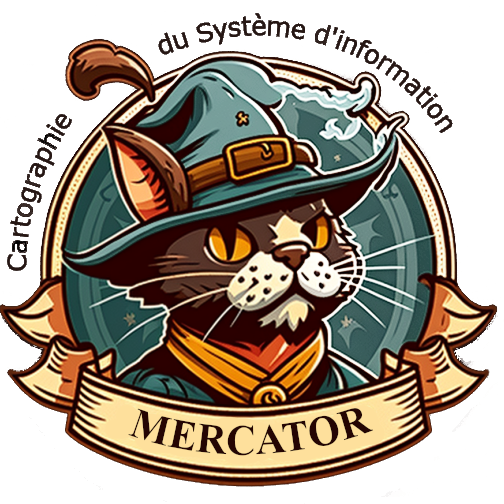
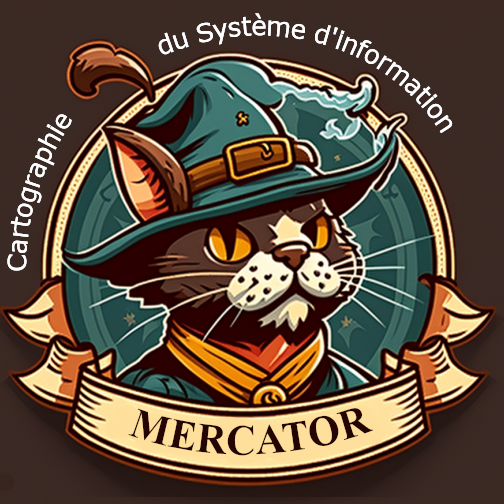
change login page

diff --git a/resources/views/auth/passwords/edit.blade.php b/resources/views/auth/passwords/edit.blade.php
@@ -1,6 +1,34 @@
 @extends('layouts.admin')
-@section('content')
+@section('styles')
+<style>
+     body {
+                background-image: url('/images/mercator.png');
+                background-size:  800px 800px;
+                background-position: center;
+                background-repeat: no-repeat;
+                background-color: #3b2924;
+            }
 
+        .card {
+            background-color: rgba(255, 255, 255, 0.5); /* Couleur blanche avec 80% d'opacité */
+        }
+
+        .input-group-text {
+            background-color: rgba(255, 255, 255, 0.5); /* Fond partiellement transparent pour les icônes */
+        }
+
+        .form-control {
+            background-color: rgba(255, 255, 255, 0.7); /* Fond partiellement transparent pour les champs de texte */
+        }
+
+        h1 {
+            text-align: center;
+            color: #333; /* Couleur du titre */
+        }
+</style>
+@endsection
+
+@section('content')
 <div class="card">
     <div class="card-header">
         {{ trans('global.change_password') }}
@@ -18,7 +46,7 @@
                     </div>
                 @endif
             </div>
-            @if (\Config::get('LDAP_DOMAIN')==null) 
+            @if (\Config::get('LDAP_DOMAIN')==null)
             <div class="form-group">
                 <label class="required" for="title">New {{ trans('cruds.user.fields.password') }}</label>
                 <input class="form-control {{ $errors->has('password') ? 'is-invalid' : '' }}" type="password" name="password" id="password" autocomplete="new-password" required>

diff --git a/resources/views/auth/login.blade.php b/resources/views/auth/login.blade.php
@@ -1,12 +1,39 @@
 @extends('layouts.app')
+@section('styles')
+<style>
+     body {
+                background-image: url('/images/mercator.png');
+                background-size:  800px 800px;
+                background-position: center;
+                background-repeat: no-repeat;
+                background-color: #3b2924;
+            }
+
+        .card {
+            background-color: rgba(255, 255, 255, 0.5); /* Couleur blanche avec 80% d'opacité */
+        }
+
+        .input-group-text {
+            background-color: rgba(255, 255, 255, 0.5); /* Fond partiellement transparent pour les icônes */
+        }
+
+        .form-control {
+            background-color: rgba(255, 255, 255, 0.7); /* Fond partiellement transparent pour les champs de texte */
+        }
+
+        h1 {
+            text-align: center;
+            color: #333; /* Couleur du titre */
+        }
+</style>
+@endsection
 @section('content')
 <div class="row justify-content-center">
     <div class="col-md-6">
         <div class="card mx-4">
             <div class="card-body p-4">
-                <h1>{{ (env('APP_NAME') === null) || (env('APP_NAME') === "Laravel") ? "Mercator" : env('APP_NAME') }}</h1>
 
-                <p class="text-muted">{{ trans('global.login') }}</p>
+                <p class="text-muted"><b>{{ trans('global.login') }}</b></p>
 
                 @if(session('message'))
                     <div class="alert alert-info" role="alert">

diff --git a/resources/views/auth/passwords/email.blade.php b/resources/views/auth/passwords/email.blade.php
@@ -1,10 +1,38 @@
 @extends('layouts.app')
+@section('styles')
+<style>
+     body {
+                background-image: url('/images/mercator.png');
+                background-size:  800px 800px;
+                background-position: center;
+                background-repeat: no-repeat;
+                background-color: #3b2924;
+            }
+
+        .card {
+            background-color: rgba(255, 255, 255, 0.5); /* Couleur blanche avec 80% d'opacité */
+        }
+
+        .input-group-text {
+            background-color: rgba(255, 255, 255, 0.5); /* Fond partiellement transparent pour les icônes */
+        }
+
+        .form-control {
+            background-color: rgba(255, 255, 255, 0.7); /* Fond partiellement transparent pour les champs de texte */
+        }
+
+        h1 {
+            text-align: center;
+            color: #333; /* Couleur du titre */
+        }
+</style>
+@endsection
+
 @section('content')
 <div class="row justify-content-center">
     <div class="col-md-6">
         <div class="card mx-4">
             <div class="card-body p-4">
-                <h1>{{ trans('panel.site_title') }}</h1>
 
                 <p class="text-muted">{{ trans('global.reset_password') }}</p>
 

diff --git a/resources/views/auth/passwords/reset.blade.php b/resources/views/auth/passwords/reset.blade.php
@@ -1,10 +1,37 @@
 @extends('layouts.app')
+@section('styles')
+<style>
+     body {
+                background-image: url('/images/mercator.png');
+                background-size:  800px 800px;
+                background-position: center;
+                background-repeat: no-repeat;
+                background-color: #3b2924;
+            }
+
+        .card {
+            background-color: rgba(255, 255, 255, 0.5); /* Couleur blanche avec 80% d'opacité */
+        }
+
+        .input-group-text {
+            background-color: rgba(255, 255, 255, 0.5); /* Fond partiellement transparent pour les icônes */
+        }
+
+        .form-control {
+            background-color: rgba(255, 255, 255, 0.7); /* Fond partiellement transparent pour les champs de texte */
+        }
+
+        h1 {
+            text-align: center;
+            color: #333; /* Couleur du titre */
+        }
+</style>
+@endsection
 @section('content')
 <div class="row justify-content-center">
     <div class="col-md-6">
         <div class="card mx-4">
             <div class="card-body p-4">
-                <h1>{{ trans('panel.site_title') }}</h1>
 
                 <p class="text-muted">{{ trans('global.reset_password') }}</p>
 

diff --git a/resources/views/auth/passwords/confirm.blade.php b/resources/views/auth/passwords/confirm.blade.php
@@ -1,4 +1,32 @@
 @extends('layouts.app')
+@section('styles')
+<style>
+     body {
+                background-image: url('/images/mercator.png');
+                background-size:  800px 800px;
+                background-position: center;
+                background-repeat: no-repeat;
+                background-color: #3b2924;
+            }
+
+        .card {
+            background-color: rgba(255, 255, 255, 0.5); /* Couleur blanche avec 80% d'opacité */
+        }
+
+        .input-group-text {
+            background-color: rgba(255, 255, 255, 0.5); /* Fond partiellement transparent pour les icônes */
+        }
+
+        .form-control {
+            background-color: rgba(255, 255, 255, 0.7); /* Fond partiellement transparent pour les champs de texte */
+        }
+
+        h1 {
+            text-align: center;
+            color: #333; /* Couleur du titre */
+        }
+</style>
+@endsection
 
 @section('content')
 <div class="container">

diff --git a/resources/views/errors/layout.blade.php b/resources/views/errors/layout.blade.php
@@ -16,7 +16,6 @@
                 height: 100vh;
                 margin: 0;
             }
-
             .full-height {
                 height: 100vh;
             }
